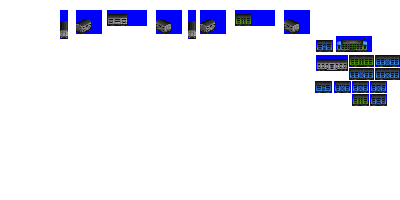
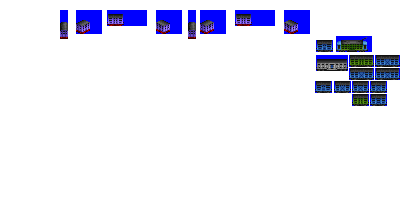
Change: sprites for gen 4A livestock car

diff --git a/src/vehicles/livestock_cars.py b/src/vehicles/livestock_cars.py
@@ -41,10 +41,12 @@ def main():
     consist = LivestockCarConsist(roster='pony',
                                   base_numeric_id=1020,
                                   gen=4,
-                                  subtype='A')
+                                  subtype='A',
+                                  sprites_complete=True)
 
     consist.add_unit(type=FreightCar,
-                     vehicle_length=4)
+                     vehicle_length=4,
+                     chassis='2_axle_filled_16px')
 
 
     consist = LivestockCarConsist(roster='pony',
